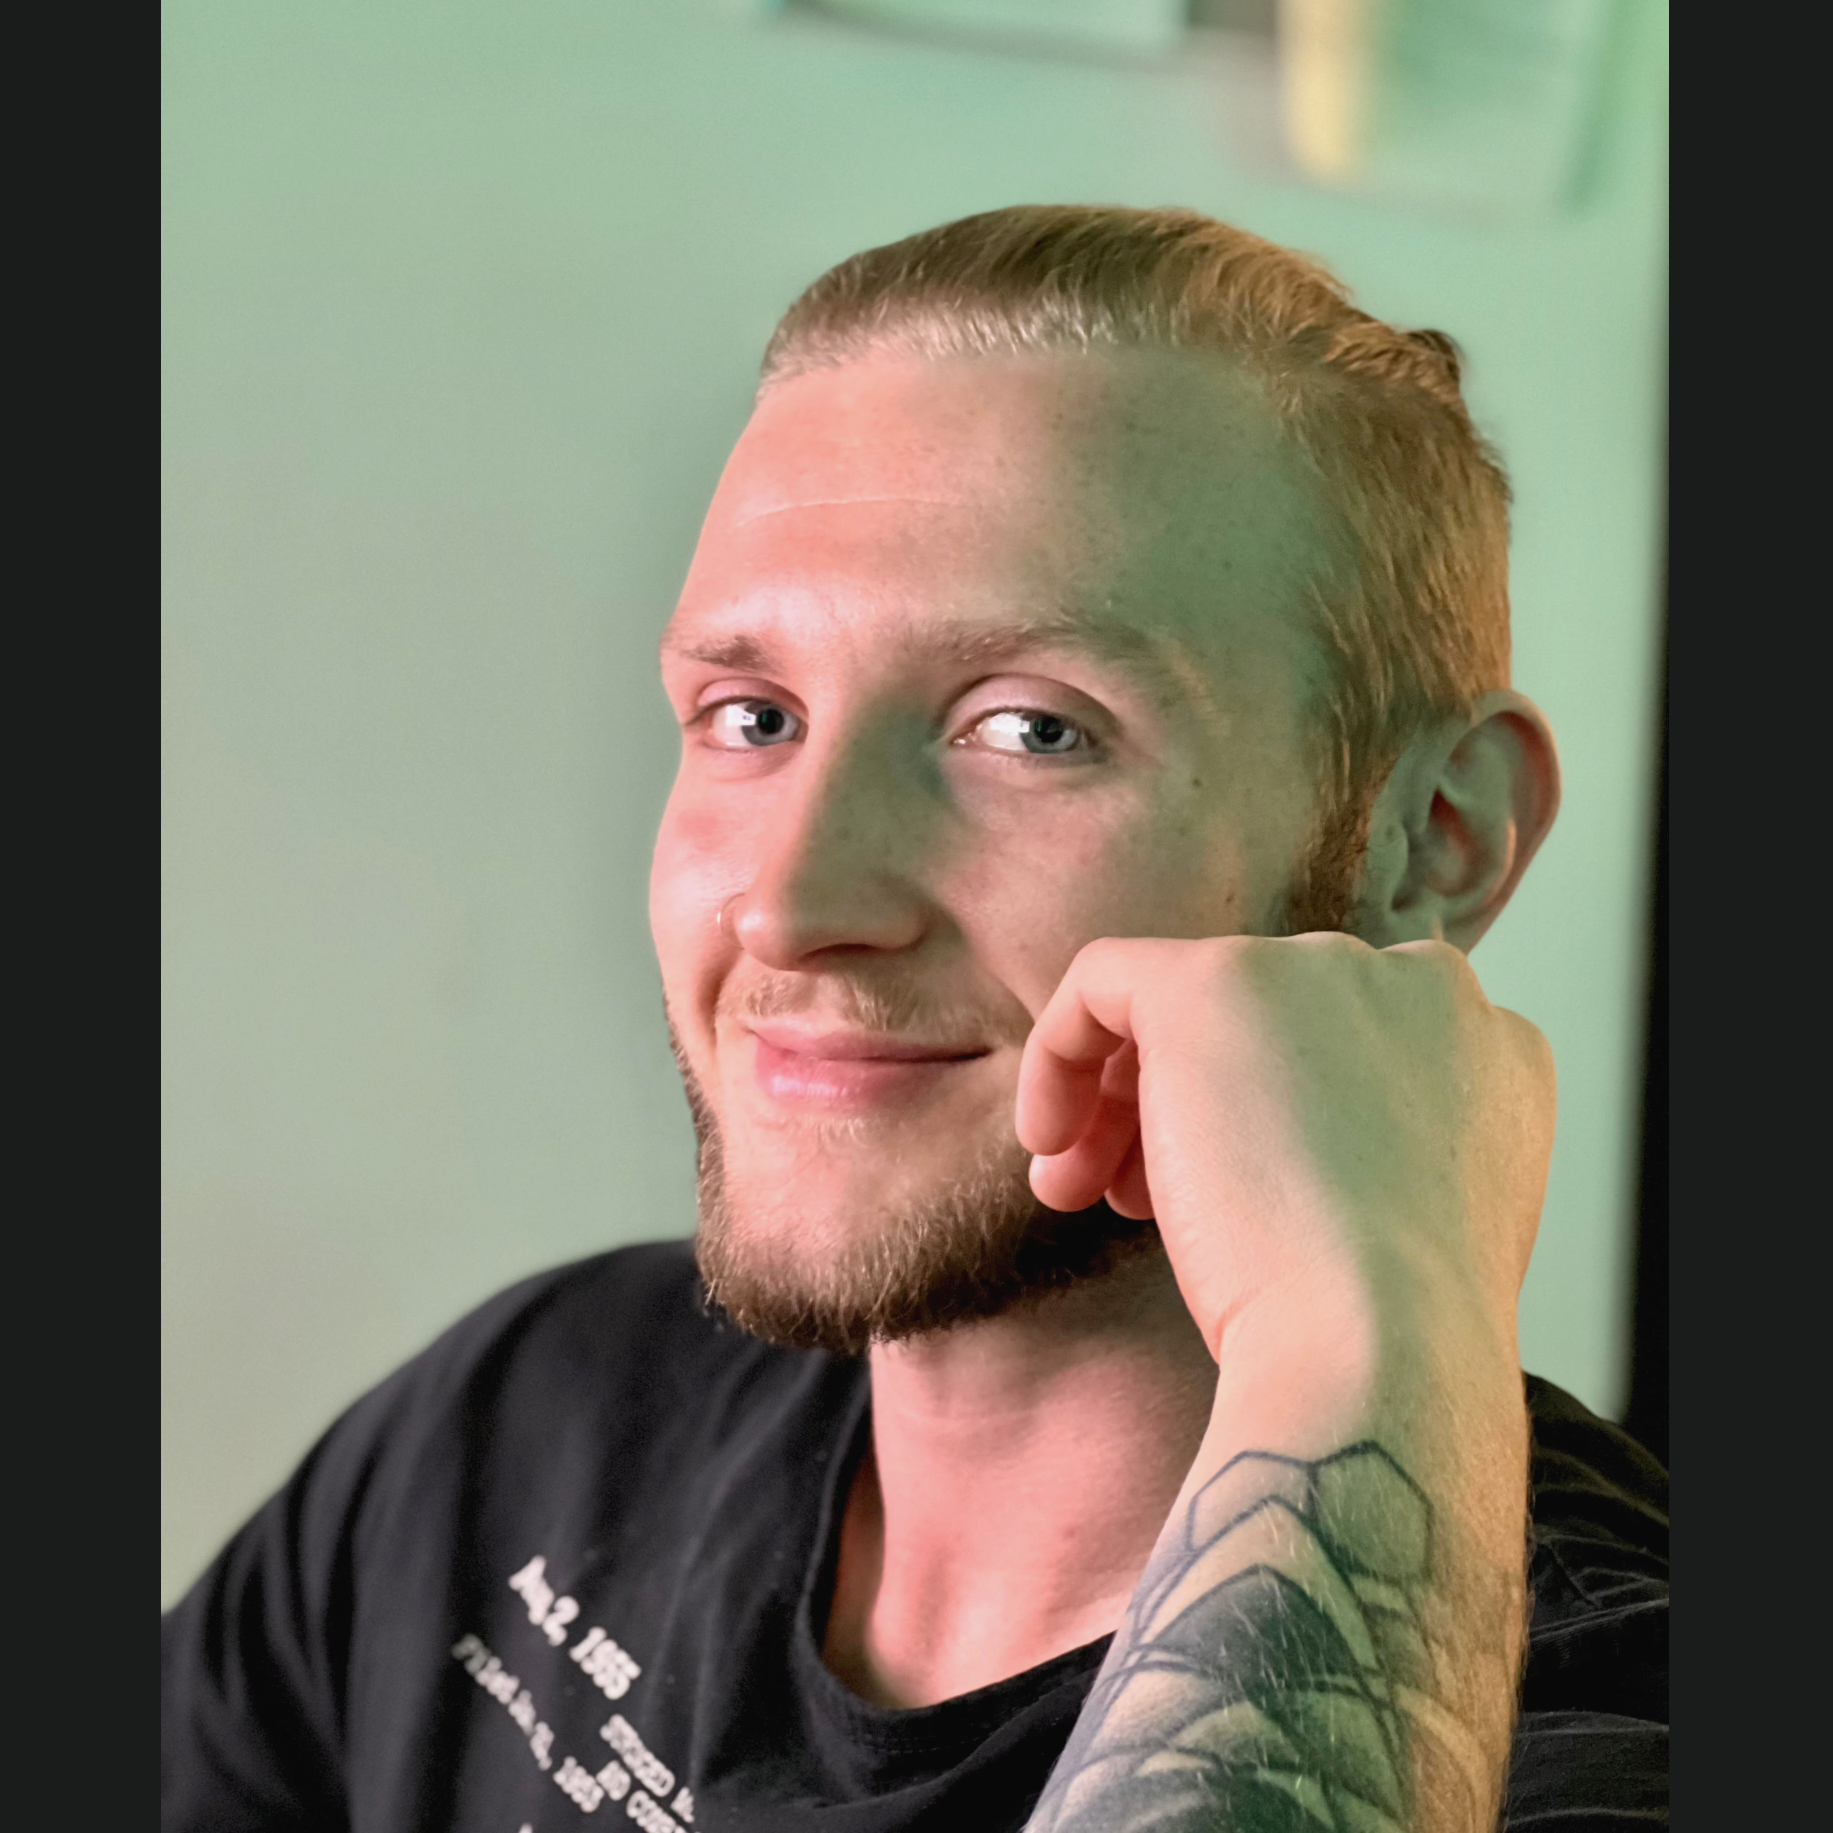
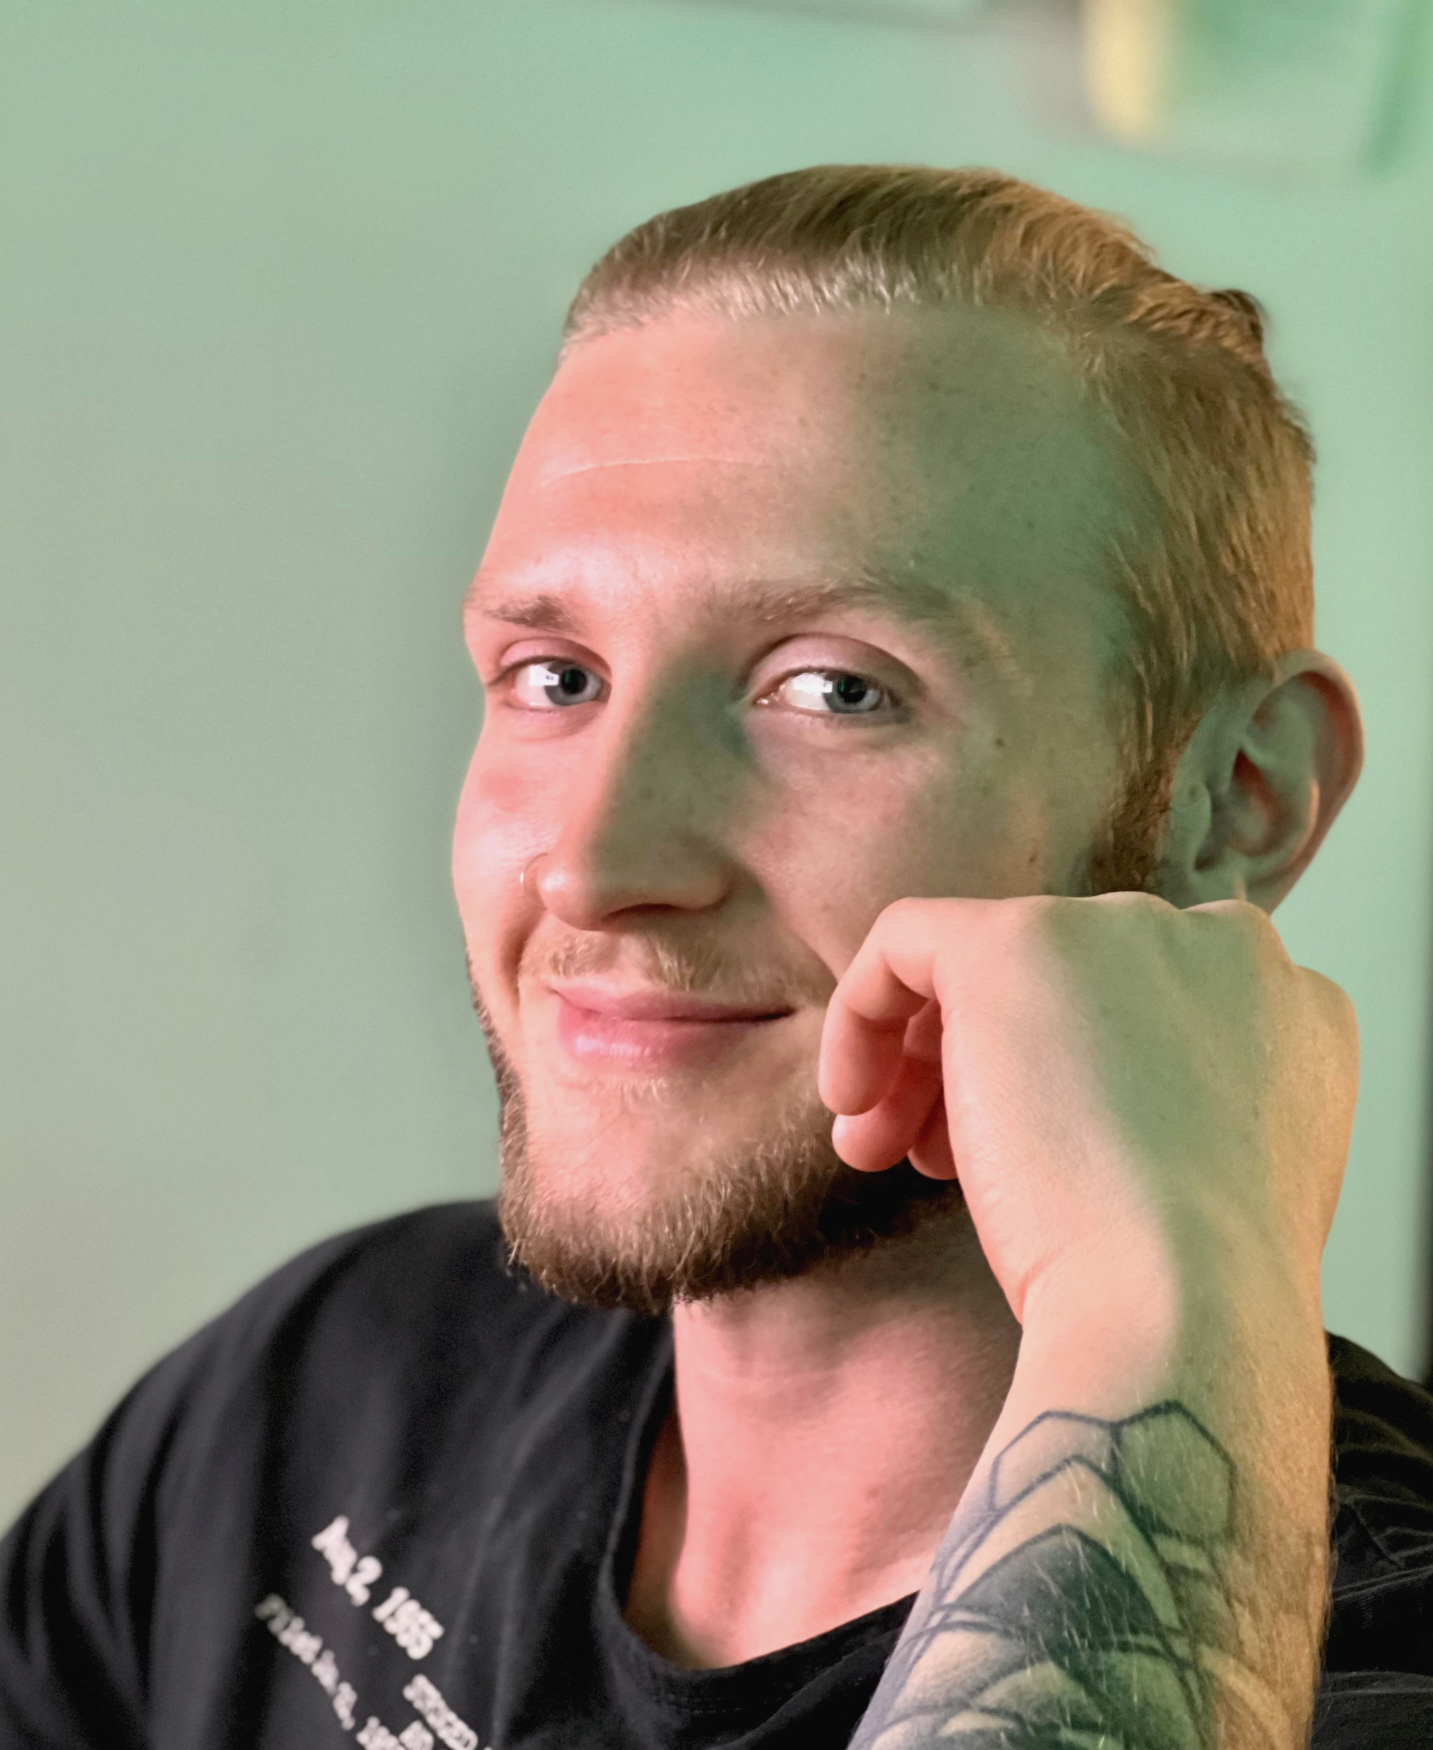
About page condensed, image fixed

diff --git a/src/components/body/About.tsx b/src/components/body/About.tsx
@@ -16,48 +16,35 @@ export default function About() {
 			</section>
 			<header>
 				<div className='img-wrapper'>
-					<img
-						src={portrait}
-						alt='portrait'
-						style={{ width: '30rem', borderRadius: '20px' }}
-					/>
+					<img src={portrait} alt='portrait' className='portrait' />
 				</div>
-				<div className='about-body'>
-					<h3>Learner, musician, engineer, </h3>
-
-					<p>
-						Born in 1996 in Seattle, Washington, my biggest interests in life
-						have always been in music and tech. Through my adolescence, large
-						portion of my youth and early adulthood revolved around playing
-						video games, learning to make them, exploring graphic design,
-						producing music, and anything else I could do through a computer.
-						The rest of my free time was spent playing, teaching, and learning
-						about music!
-					</p>
-					<p>
-						My career path led me through the trades early. In my young mind,
-						since I enjoyed working on cars, I that being a mechanic would be a
-						great career path for me. I attended Shoreline Community College and
-						took a technical class on Automotive Technology, and had a job in
-						the industry as a mechanic before I graduated in 2016. However, by
-						2020, during the Coronavirus outbreak, I was already debating
-						leaving the field as it was quickly killing my passion for working
-						on cars. I wanted to work another trade, and through the few job
-						openings that were available during the outbreak, I got a job at a
-						masonry company.
-					</p>
-					<p>
-						Though I excelled and enjoyed my time in masonry, my interest in
-						tech was piqued after hearing about how happy many tech workers
-						were. I was also curious because I had actually spent some time
-						coding in my youth already. I decided to register for a Full-Stack
-						Web Development bootcamp at the University of Washington, and
-						through the course I discovered that I'd like to begin a career in
-						Front End Development. Since graduating on September 17th, 2022,
-						I've been immersing myself in Front End Development, learning the
-						standard practices and different technologies being used today to
-						prepare myself for my first position in Front End Development.
-					</p>
+				<div className='about-text'>
+					<h1>Learner, musician, engineer </h1>
+					<div className='about-body'>
+						<p>
+							<strong>
+								Born in 1996 in Seattle, Washington, my biggest interests in
+								life have always been in music and tech.{' '}
+							</strong>
+						</p>
+						<p>
+							I am grateful to say that I've built my life in a way where I now
+							have the opportunity to be involved with both, extensively -{' '}
+							<strong>everyday.</strong>
+						</p>
+						<p>
+							Though I excelled and enjoyed my time in masonry, my interest in
+							tech was piqued after hearing about how happy many tech workers
+							were. I was also curious because I had actually spent some time
+							coding in my youth already. I decided to register for a Full-Stack
+							Web Development bootcamp at the University of Washington, and
+							through the course I discovered that I'd like to begin a career in
+							Front End Development. Since graduating on September 17th, 2022,
+							I've been immersing myself in Front End Development, learning the
+							practices and technologies being used today to prepare myself for
+							my first position in Front End Development.
+						</p>
+					</div>
 				</div>
 			</header>
 		</div>

diff --git a/src/assets/style/style.css b/src/assets/style/style.css
@@ -201,8 +201,10 @@ nav {
 }
 .about header {
   display: flex;
-  justify-content: space-between;
+  flex-direction: row;
   align-items: center;
+  justify-content: space-evenly;
+  height: 100%;
   margin: 2.5rem auto;
   min-width: 25rem;
   width: 90%;
@@ -211,9 +213,28 @@ nav {
   display: flex;
   justify-content: center;
   align-items: center;
-  border-radius: 15px;
+  height: 100%;
   width: 40%;
-  overflow: hidden;
+  float: left;
+}
+.about header .img-wrapper .portrait {
+  width: 100%;
+}
+.about header .about-text {
+  display: flex;
+  align-items: center;
+  flex-direction: column;
+  justify-content: space-between;
+  height: 100%;
+  width: 60%;
+}
+.about header .about-text h1 {
+  font-size: 2rem;
+  margin: 2rem;
+}
+.about header .about-text p {
+  text-indent: 3rem;
+  font-size: 1.2rem !important;
 }
 
 * {

diff --git a/src/assets/style/_about.scss b/src/assets/style/_about.scss
@@ -21,23 +21,36 @@
 		}
 	}
 	header {
-		display: flex;
-		justify-content: space-between;
-		align-items: center;
+		@include flexRowAlign(center);
+		justify-content: space-evenly;
 
+		height: 100%;
 		margin: 2.5rem auto;
 		min-width: 25rem;
 		width: 90%;
 		.img-wrapper {
 			@include flexCenter();
-
-			border-radius: 15px;
+			height: 100%;
 			width: 40%;
-
-			overflow: hidden;
+			float: left;
+			.portrait {
+				width: 100%;
+			}
 		}
-	}
-	.about-body {
-		width: 50% !important;
+
+		.about-text {
+			@include flexColumnAlign(center);
+			justify-content: space-between;
+			height: 100%;
+			width: 60%;
+			h1 {
+				font-size: 2rem;
+				margin: 2rem;
+			}
+			p {
+				text-indent: 3rem;
+				font-size: 1.2rem !important;
+			}
+		}
 	}
 }
